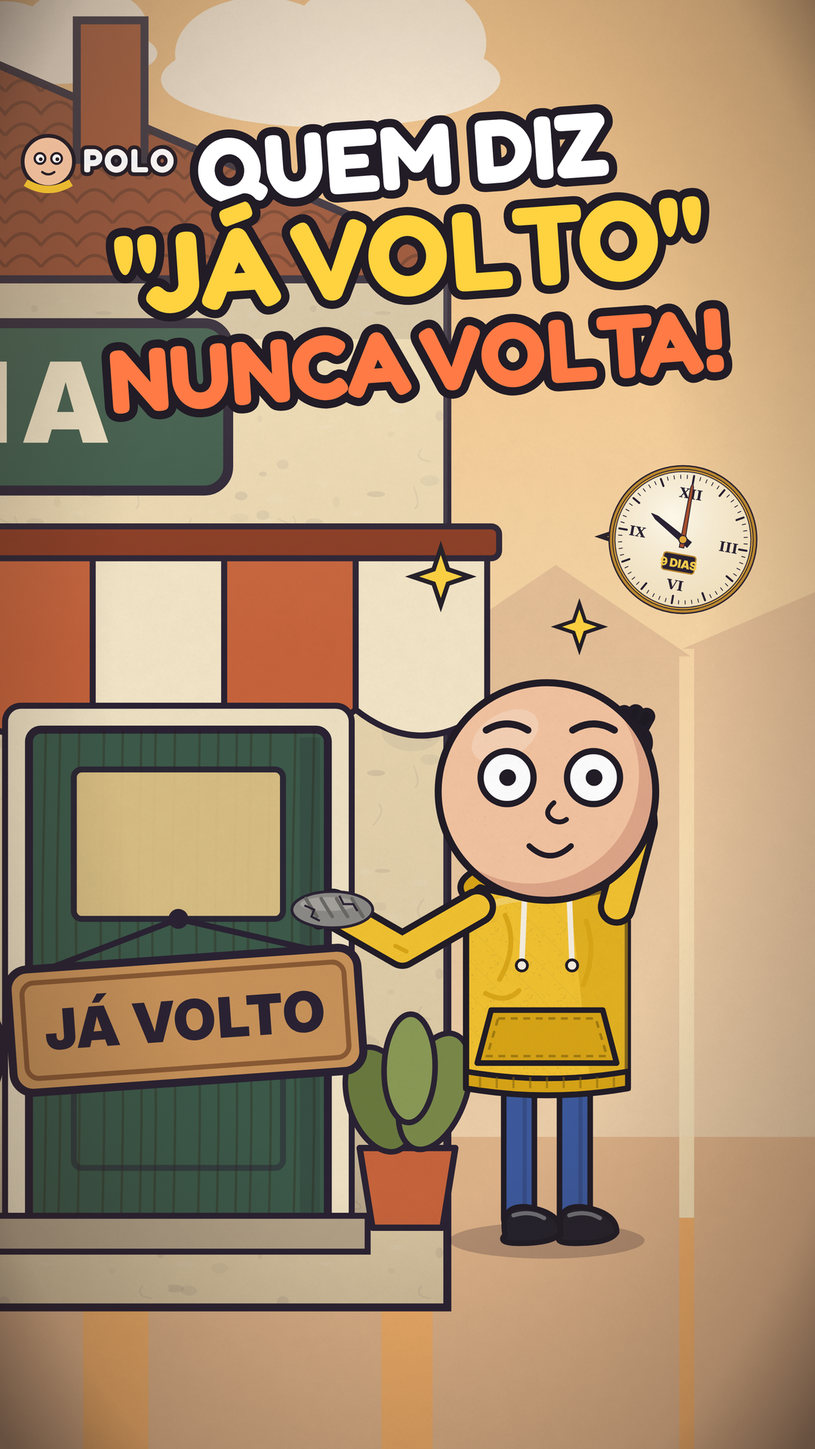
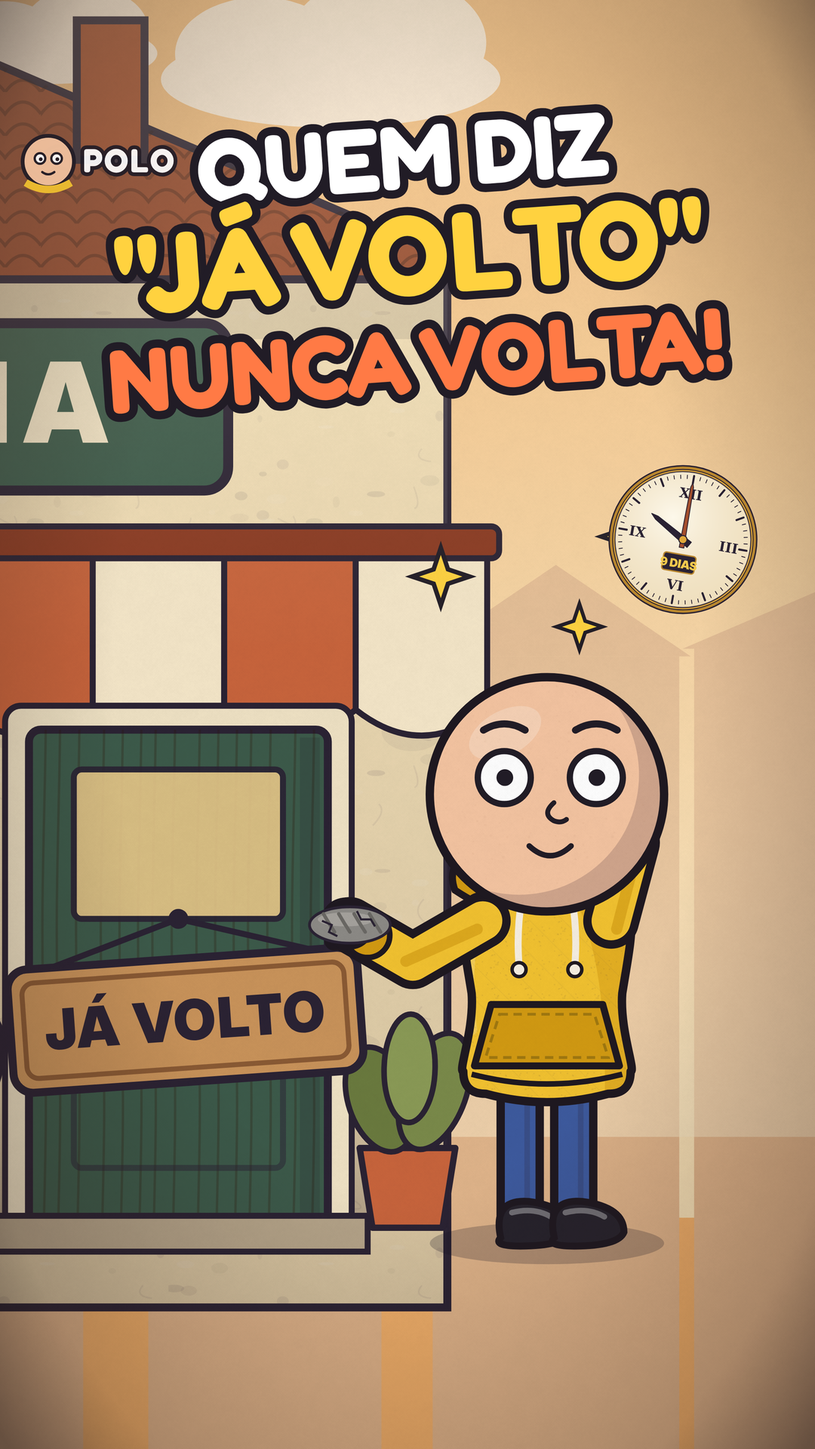
Character rig v2: rounded orbita-like bodies, patterned clothes, bulb noses, heavy lids, volumetric hair, mitten hands
Claude-Session: https://claude.ai/code/session_01HYk7gqrGxfTzigKjgtFxjV

Changed region(s): [[0.3667, 0.4375, 0.825, 0.875]]

diff --git a/video/web9/characters2.js b/video/web9/characters2.js
@@ -1,0 +1,290 @@
+// Character rig v2 — chunky, rounded "orbita-like" design language: barrel/pear bodies, puffy limbs,
+// mitten hands with fingers, bulb noses, heavy eyelids, volumetric hair, patterned clothes, thick outlines.
+// Same API as person() v1 so all shots keep working. Loaded after characters.js and overrides person/personSide.
+const OL = '#1e1820';          // outline
+const LW = 6;                  // outline width
+const H2 = -320, HR2 = 84;     // head centre / radius
+
+const CAST2 = {
+  polo:     { skin: '#f4c4a1', top: '#f2c230', topD: '#d29a12', topType: 'hoodie', bottom: '#3d5a9e', shoes: '#26222c', hands: '#1d1a22', hair: 'bald', poloFace: 1, w: 1.0, seed: 1 },
+  padeira:  { skin: '#f1c08f', top: '#e0787a', topD: '#c05a5e', topType: 'dress', pattern: 'pDots', apron: 1, bottom: '#e0787a', shoes: '#7a3a2a', hair: 'chef', hairC: '#5a3424', blush: 1, ear: '#f2c230', w: 1.28, seed: 2 },
+  padeiraV: { skin: '#f1c08f', top: '#9b84c8', topD: '#7a62aa', topType: 'dress', pattern: 'pFlowers', bottom: '#9b84c8', shoes: '#8a5a8a', hair: 'cloud', hairC: '#e8e4f2', bun: 1, glasses: '#c9a24a', blush: 1, ear: '#f2c230', w: 1.3, seed: 2 },
+  mae:      { skin: '#c98b5e', top: '#7b52b8', topD: '#5e3c98', topType: 'dress', pattern: 'pFlowers', bottom: '#7b52b8', shoes: '#e07a9a', hair: 'cloud', hairC: '#3a2018', bun: 1, blush: 1, ear: '#f2c230', w: 1.22, seed: 3 },
+  motorista:{ skin: '#f3cfae', top: '#3c5a8a', topD: '#2a426c', topType: 'shirt', tie: '#c8443c', bottom: '#28324c', shoes: '#1d1a22', hair: 'driverCap', stache: '#4a2a1a', w: 1.18, seed: 4 },
+  barnabe:  { skin: '#eab88a', top: '#f4efe2', topD: '#d6cfbe', topType: 'vest', vest: '#8a6a3a', bottom: '#5a5a6a', shoes: '#3a2a20', hair: 'sides', stache: '#f6f3ec', hat: 'straw', cane: 1, w: 1.12, seed: 5 },
+  menino:   { skin: '#8d5a34', top: '#e86a4a', topD: '#c24a32', topType: 'tee', pattern: 'pStripeH', bottom: '#3d5a9e', shorts: 1, shoes: '#f4f1ea', hair: 'cap', hairC: '#1e1410', scale: 0.74, w: 1.0, seed: 6 },
+  mulher:   { skin: '#e0ac79', top: '#3f9a6e', topD: '#2c7a52', topType: 'dress', pattern: 'pDots', bottom: '#3f9a6e', shoes: '#c8443c', hair: 'cloud', hairC: '#6a3a24', glasses: '#d0604a', blush: 1, ear: '#f2c230', w: 1.18, seed: 7 },
+  moca:     { skin: '#f5d0b0', top: '#ee8aaa', topD: '#d06a8c', topType: 'tee', bottom: '#4f72b8', shoes: '#f4f1ea', hair: 'long', hairC: '#7a4426', bow: '#f2c230', blush: 1, ear: '#ee8aaa', scale: 0.95, w: 1.0, seed: 8 },
+  viz1:     { skin: '#c98b5e', top: '#6a9ad0', topD: '#4c7ab0', topType: 'shirt', bottom: '#5a4a3a', shoes: '#2a2228', hair: 'short', hairC: '#1d1a22', w: 1.1, seed: 9 },
+  viz2:     { skin: '#f1c08f', top: '#d0704a', topD: '#a8502e', topType: 'tee', pattern: 'pStripeH', bottom: '#3a3a4a', shoes: '#2a2228', hair: 'short', hairC: '#8a5a2a', w: 1.15, seed: 10 },
+  viz3:     { skin: '#8d5a34', top: '#e8b03a', topD: '#c08a1e', topType: 'dress', pattern: 'pFlowers', bottom: '#e8b03a', shoes: '#6a3a28', hair: 'cloud', hairC: '#1d1a22', blush: 1, ear: '#e86a6a', w: 1.2, seed: 11 },
+  padeiro2: { skin: '#c98b5e', top: '#f6efe2', topD: '#dcd2bc', topType: 'shirt', apron: 1, bottom: '#3a3a4a', shoes: '#2a2228', hair: 'chef', hairC: '#1d1a22', w: 1.08, seed: 13 },
+};
+const shade = (c, k = 0.22) => mix(c, '#2a1a2a', k);
+const lite = (c, k = 0.25) => mix(c, '#ffffff', k);
+
+// ---------- hands ----------
+function mitt(hx, hy, ex, ey, col, pose) {
+  const deg = Math.atan2(hy - ey, hx - ex) * 180 / Math.PI;
+  let s = `<g transform="translate(${f2(hx)} ${f2(hy)}) rotate(${f2(deg)})">`;
+  const fing = (rot, len, w = 11) => `<g transform="rotate(${rot})"><rect x="4" y="${-w / 2}" width="${len}" height="${w}" rx="${w / 2}" fill="${col}" stroke="${OL}" stroke-width="4"/></g>`;
+  if (pose === 'open') { s += fing(-34, 24) + fing(-11, 27) + fing(12, 26) + fing(34, 22) + fing(-88, 19); }
+  else if (pose === 'point') { s += fing(0, 34) + fing(-80, 16); s += `<path d="M 6 10 q 12 6 16 0" stroke="${OL}" stroke-width="3.5" fill="${col}"/>`; }
+  else { s += fing(-75, 17); }
+  s += `<ellipse cx="2" cy="0" rx="17" ry="16" fill="${col}" stroke="${OL}" stroke-width="${LW - 1}"/>`;
+  if (pose !== 'open' && pose !== 'point') s += `<path d="M 10 -8 q 6 8 0 16" stroke="${shade(col, 0.35)}" stroke-width="3" fill="none"/>`;
+  return s + `<circle cx="-4" cy="-6" r="4" fill="#fff" opacity="0.28"/></g>`;
+}
+
+// ---------- head ----------
+function head2(P, d, fx, dir, side) {
+  let s = '';
+  const sk = P.skin, skD = shade(sk, 0.18);
+  // hair behind
+  s += hairBack2(P, dir);
+  // ears
+  if (!P.poloFace) for (const k of (side ? [-dir] : [-1, 1])) {
+    const ex = side ? -dir * 66 : k * 80;
+    s += `<ellipse cx="${ex}" cy="${H2 + 10}" rx="15" ry="18" fill="${sk}" stroke="${OL}" stroke-width="${LW - 1}"/><path d="M ${ex - k * 2} ${H2 + 2} q ${-k * 6} 8 0 16" stroke="${skD}" stroke-width="4" fill="none"/>`;
+    if (P.ear) s += `<circle cx="${ex}" cy="${H2 + 34}" r="7" fill="${P.ear}" stroke="${OL}" stroke-width="3"/>`;
+  }
+  // skull: slightly wider at the cheeks for the non-Polo cast
+  const skull = P.poloFace ? `M 0 ${H2 - HR2} A ${HR2} ${HR2} 0 1 1 0 ${H2 + HR2} A ${HR2} ${HR2} 0 1 1 0 ${H2 - HR2} Z`
+    : `M 0 ${H2 - 84} C 56 ${H2 - 84} 84 ${H2 - 46} 84 ${H2 + 2} C 84 ${H2 + 58} 50 ${H2 + 84} 0 ${H2 + 84} C -50 ${H2 + 84} -84 ${H2 + 58} -84 ${H2 + 2} C -84 ${H2 - 46} -56 ${H2 - 84} 0 ${H2 - 84} Z`;
+  s += `<path d="${skull}" fill="${skD}"/>`;
+  s += `<clipPath id="ck${P.seed}${side ? 's' : ''}"><path d="${skull}"/></clipPath><g clip-path="url(#ck${P.seed}${side ? 's' : ''})"><circle cx="${-dir * 14 - 6}" cy="${H2 - 14}" r="${HR2 + 2}" fill="${sk}"/><ellipse cx="-30" cy="${H2 - 44}" rx="28" ry="16" fill="#fff" opacity="0.22" transform="rotate(-28 -30 ${H2 - 44})"/><rect x="-100" y="${H2 - 100}" width="200" height="200" fill="url(#pSkin)"/></g>`;
+  s += `<path d="${skull}" fill="none" stroke="${OL}" stroke-width="${LW}"/>`;
+  s += P.poloFace ? poloFace2(P, d, fx) : face2(P, d, fx, dir, side);
+  s += hairFront2(P, d, dir, fx);
+  return s;
+}
+
+function lidPath(cx, cy, rx, ry, lid, col) {
+  if (lid <= 0.02) return '';
+  const ly = cy - ry + 2 * ry * lid;
+  const half = rx * Math.sqrt(Math.max(0, 1 - Math.pow((ly - cy) / ry, 2)));
+  return `<path d="M ${f2(cx - rx - 2)} ${f2(cy - ry - 3)} H ${f2(cx + rx + 2)} V ${f2(ly)} Q ${f2(cx)} ${f2(ly + 4)} ${f2(cx - rx - 2)} ${f2(ly)} Z" fill="${col}"/>` +
+    `<path d="M ${f2(cx - half - 2)} ${f2(ly)} Q ${f2(cx)} ${f2(ly + 4)} ${f2(cx + half + 2)} ${f2(ly)}" stroke="${OL}" stroke-width="5.5" fill="none" stroke-linecap="round"/>`;
+}
+
+function face2(P, d, fx, dir, side) {
+  const e = d.expr, sk = P.skin, skD = shade(sk, 0.2);
+  const ey = H2 - 8, sep = side ? 18 : 30, rx = 15, ry = 17;
+  const bl = Math.max(d.blink, autoBlink(d.t, P.seed));
+  let s = '';
+  const baseLid = { neutral: 0.34, happy: 0.38, smug: 0.5, worried: 0.18, sad: 0.42, angry: 0.4, surprised: 0, joy: 0, laugh: 0 }[e] ?? 0.3;
+  const bw = { neutral: [0, 0], happy: [-2, 0], surprised: [-14, 0], worried: [-4, 10], angry: [3, -10], smug: [-1, -6], laugh: [-6, 0], joy: [-8, 0], sad: [0, 10] }[e] || [0, 0];
+  const browC = P.hair === 'cloud' || P.hair === 'long' || P.hair === 'short' || P.hair === 'cap' ? (P.hairC || OL) : OL;
+  for (const k of [-1, 1]) {
+    const cx = fx + k * sep;
+    const y = ey - 30 + bw[0], inner = bw[1];
+    s += `<path d="M ${f2(cx - 15)} ${f2(y + (k < 0 ? 0 : inner * 0.5) + 2)} Q ${f2(cx)} ${f2(y - 7)} ${f2(cx + 15)} ${f2(y + (k < 0 ? inner * 0.5 : 0) + 2)}" stroke="${browC}" stroke-width="7.5" fill="none" stroke-linecap="round"/>`;
+    if (e === 'laugh' || e === 'joy' || (e === 'smug' && d.wink && k === 1)) {
+      s += `<path d="M ${f2(cx - 14)} ${ey + 4} Q ${f2(cx)} ${ey - 12} ${f2(cx + 14)} ${ey + 4}" stroke="${OL}" stroke-width="6" fill="none" stroke-linecap="round"/>`;
+      continue;
+    }
+    const big = e === 'surprised' ? 1.15 : 1;
+    s += `<ellipse cx="${f2(cx)}" cy="${ey}" rx="${f2(rx * big)}" ry="${f2(ry * big)}" fill="#fffdf6" stroke="${OL}" stroke-width="4.5"/>`;
+    const px = cx + d.lx * 6 + (side ? dir * 5 : d.face * 3), py = ey + 2 + d.ly * 6;
+    s += `<circle cx="${f2(px)}" cy="${f2(py)}" r="${e === 'surprised' ? 4.5 : 6.5}" fill="${OL}"/><circle cx="${f2(px + 2)}" cy="${f2(py - 2.5)}" r="2" fill="#fff"/>`;
+    s += lidPath(cx, ey, rx * big, ry * big, Math.max(bl, baseLid), skD);
+    if (e === 'happy') s += `<path d="M ${f2(cx - 12)} ${ey + 14} Q ${f2(cx)} ${ey + 8} ${f2(cx + 12)} ${ey + 14}" stroke="${skD}" stroke-width="4" fill="none"/>`;
+  }
+  if (P.glasses) { for (const k of [-1, 1]) s += `<circle cx="${f2(fx + k * sep)}" cy="${ey}" r="25" fill="#ffffff22" stroke="${P.glasses}" stroke-width="6"/>`; s += `<path d="M ${f2(fx - 6)} ${ey - 2} L ${f2(fx + 6)} ${ey - 2}" stroke="${P.glasses}" stroke-width="6"/>`; }
+  // bulb nose
+  const nx = fx + (side ? dir * 30 : d.face * 6), ny = H2 + 22;
+  s += `<ellipse cx="${f2(nx)}" cy="${ny}" rx="15" ry="13" fill="${shade(sk, 0.12)}" stroke="${OL}" stroke-width="${LW - 1}"/><circle cx="${f2(nx - 4)}" cy="${ny - 5}" r="4" fill="#fff" opacity="0.4"/>`;
+  // cheeks
+  if (P.blush || e === 'laugh' || e === 'joy') for (const k of [-1, 1]) s += `<ellipse cx="${f2(fx + k * 44)}" cy="${H2 + 28}" rx="15" ry="9" fill="#e85a5a" opacity="0.32"/>`;
+  // mouth with lips
+  const mx = fx * 0.9 + (side ? dir * 18 : 0), my = H2 + 52, m = clamp(d.mouth);
+  const lip = shade(sk, 0.32);
+  if (e === 'surprised' || e === 'o') s += `<ellipse cx="${f2(mx)}" cy="${my}" rx="${f2(10 + m * 3)}" ry="${f2(12 + m * 5)}" fill="#6a1c28" stroke="${OL}" stroke-width="4.5"/><ellipse cx="${f2(mx)}" cy="${my + 6}" rx="6" ry="4" fill="#e0606a"/>`;
+  else if (e === 'laugh' || e === 'joy' || m > 0.05) {
+    const op = e === 'laugh' || e === 'joy' ? Math.max(m, 0.75) : m;
+    s += `<path d="M ${f2(mx - 22)} ${my - 6} Q ${f2(mx)} ${f2(my + 4 + op * 26)} ${f2(mx + 22)} ${my - 6} Q ${f2(mx)} ${my - 2} ${f2(mx - 22)} ${my - 6} Z" fill="#6a1c28" stroke="${OL}" stroke-width="4.5" stroke-linejoin="round"/>`;
+    if (op > 0.3) s += `<path d="M ${f2(mx - 17)} ${my - 4} Q ${f2(mx)} ${my} ${f2(mx + 17)} ${my - 4} L ${f2(mx + 14)} ${my + 4} Q ${f2(mx)} ${my + 7} ${f2(mx - 14)} ${my + 4} Z" fill="#fff"/><ellipse cx="${f2(mx)}" cy="${f2(my + op * 16)}" rx="9" ry="5" fill="#e0606a"/>`;
+  } else if (e === 'worried' || e === 'sad') s += `<path d="M ${f2(mx - 15)} ${my + 6} Q ${f2(mx)} ${my - 6} ${f2(mx + 15)} ${my + 6}" stroke="${OL}" stroke-width="5" fill="none" stroke-linecap="round"/><path d="M ${f2(mx - 8)} ${my + 6} q 8 4 16 0" stroke="${lip}" stroke-width="4" fill="none"/>`;
+  else if (e === 'smug') s += `<path d="M ${f2(mx - 16)} ${my} Q ${f2(mx + 2)} ${my + 10} ${f2(mx + 20)} ${my - 8}" stroke="${OL}" stroke-width="5" fill="none" stroke-linecap="round"/><path d="M ${f2(mx - 8)} ${my + 7} q 8 5 16 -1" stroke="${lip}" stroke-width="4" fill="none"/>`;
+  else if (e === 'neutral' || e === 'angry') s += `<path d="M ${f2(mx - 13)} ${my} Q ${f2(mx)} ${my - 3} ${f2(mx + 13)} ${my}" stroke="${OL}" stroke-width="5" fill="none" stroke-linecap="round"/><path d="M ${f2(mx - 8)} ${my + 6} q 8 4 16 0" stroke="${lip}" stroke-width="4" fill="none"/>`;
+  else s += `<path d="M ${f2(mx - 19)} ${my - 4} Q ${f2(mx)} ${my + 14} ${f2(mx + 19)} ${my - 4}" stroke="${OL}" stroke-width="5" fill="none" stroke-linecap="round"/><path d="M ${f2(mx - 10)} ${my + 10} q 10 5 20 0" stroke="${lip}" stroke-width="4" fill="none"/>`;
+  if (P.stache) s += `<path d="M ${f2(mx - 34)} ${my - 6} Q ${f2(mx - 18)} ${my - 30} ${f2(mx)} ${my - 15} Q ${f2(mx + 18)} ${my - 30} ${f2(mx + 34)} ${my - 6} Q ${f2(mx + 16)} ${my - 2} ${f2(mx)} ${my - 9} Q ${f2(mx - 16)} ${my - 2} ${f2(mx - 34)} ${my - 6} Z" fill="${P.stache}" stroke="${OL}" stroke-width="4.5"/>`;
+  return s;
+}
+
+// Polo keeps the user's design: big round white eyes, tiny pupils, small curl nose, small mouth.
+function poloFace2(P, d, fx) {
+  const fdd = Object.assign({}, d, { sep: d.sep || 33 });
+  const old = HY; // v1 face uses HY (-322); same placement works on the r=84 head
+  return face9(fdd, CAST.polo, fx);
+}
+
+function hairBack2(P, dir) {
+  const c = P.hairC || '#3a2018';
+  if (P.hair === 'long') return `<path d="M -92 ${H2 - 4} C -106 ${H2 - 124} 106 ${H2 - 124} 92 ${H2 - 4} C 104 ${H2 + 60} 108 ${H2 + 120} 86 ${H2 + 140} Q 50 ${H2 + 150} 40 ${H2 + 110} L -40 ${H2 + 110} Q -50 ${H2 + 150} -86 ${H2 + 140} C -108 ${H2 + 120} -104 ${H2 + 60} -92 ${H2 - 4} Z" fill="${c}" stroke="${OL}" stroke-width="${LW}"/><path d="M 60 ${H2 + 20} q 16 50 8 100" stroke="${lite(c, 0.2)}" stroke-width="6" fill="none" opacity="0.6"/>`;
+  if (P.hair === 'cloud') {
+    let s = ''; const big = P.bun ? 0.8 : 1.12;
+    for (let i = 0; i < 11; i++) { const a = Math.PI * (0.92 + i * 0.116); s += `<circle cx="${f2(Math.cos(a) * 92 * big)}" cy="${f2(H2 + Math.sin(a) * 86 * big + 6)}" r="${f2(30 * big)}" fill="${c}" stroke="${OL}" stroke-width="${LW}"/>`; }
+    if (P.bun) s += `<circle cx="0" cy="${H2 - 104}" r="40" fill="${c}" stroke="${OL}" stroke-width="${LW}"/><path d="M -22 ${H2 - 118} q 14 -16 32 -8" stroke="${lite(c, 0.35)}" stroke-width="7" fill="none" stroke-linecap="round"/>`;
+    return s;
+  }
+  return '';
+}
+function hairFront2(P, d, dir, fx) {
+  const c = P.hairC || '#3a2018', hl = lite(c, 0.35);
+  switch (P.hair) {
+    case 'cloud': {
+      let s = `<path d="M -84 ${H2 - 6} C -90 ${H2 - 104} 90 ${H2 - 104} 84 ${H2 - 6} Q 50 ${H2 - 52} 10 ${H2 - 48} Q -40 ${H2 - 44} -84 ${H2 - 6} Z" fill="${c}" stroke="${OL}" stroke-width="${LW}"/>`;
+      for (let i = 0; i < 6; i++) s += `<circle cx="${-60 + i * 24}" cy="${H2 - 70 + Math.abs(i - 2.5) * 7}" r="21" fill="${c}" stroke="${OL}" stroke-width="${LW - 1}"/>`;
+      for (let i = 0; i < 4; i++) s += `<path d="M ${-56 + i * 30} ${H2 - 80 + Math.abs(i - 1.5) * 6} q 8 -8 16 -2" stroke="${hl}" stroke-width="5" fill="none" stroke-linecap="round"/>`;
+      return s;
+    }
+    case 'long': return `<path d="M -86 ${H2 + 4} C -92 ${H2 - 108} 92 ${H2 - 108} 86 ${H2 + 4} Q 56 ${H2 - 70} ${f2(fx + 14)} ${H2 - 58} Q -34 ${H2 - 46} -86 ${H2 + 4} Z" fill="${c}" stroke="${OL}" stroke-width="${LW}"/><path d="M -40 ${H2 - 80} q 26 -14 56 -6" stroke="${hl}" stroke-width="6" fill="none" stroke-linecap="round"/>` +
+      (P.bow ? `<path d="M 34 ${H2 - 86} l -28 -18 l 0 36 Z M 34 ${H2 - 86} l 28 -18 l 0 36 Z" fill="${P.bow}" stroke="${OL}" stroke-width="4.5" stroke-linejoin="round"/><circle cx="34" cy="${H2 - 86}" r="9" fill="${P.bow}" stroke="${OL}" stroke-width="4"/>` : '');
+    case 'short': return `<path d="M -86 ${H2 - 2} C -92 ${H2 - 110} 92 ${H2 - 110} 86 ${H2 - 2} Q 74 ${H2 - 46} ${f2(fx + 36)} ${H2 - 58} Q -12 ${H2 - 46} -38 ${H2 - 66} Q -62 ${H2 - 40} -86 ${H2 - 2} Z" fill="${c}" stroke="${OL}" stroke-width="${LW}"/><path d="M -30 ${H2 - 88} q 30 -10 60 0" stroke="${hl}" stroke-width="6" fill="none" stroke-linecap="round"/>`;
+    case 'chef': return `<path d="M -70 ${H2 - 30} Q -74 ${H2 - 60} -60 ${H2 - 62} L 60 ${H2 - 62} Q 74 ${H2 - 60} 70 ${H2 - 30} Q 0 ${H2 - 46} -70 ${H2 - 30} Z" fill="${c}" stroke="${OL}" stroke-width="${LW - 1}"/>` +
+      `<rect x="-68" y="${H2 - 100}" width="136" height="40" rx="10" fill="#f6efe2" stroke="${OL}" stroke-width="${LW}"/><path d="M -66 ${H2 - 96} C -112 ${H2 - 120} -76 ${H2 - 184} -36 ${H2 - 158} C -26 ${H2 - 208} 30 ${H2 - 208} 38 ${H2 - 158} C 76 ${H2 - 184} 112 ${H2 - 120} 66 ${H2 - 96} Z" fill="#fffbf2" stroke="${OL}" stroke-width="${LW}"/><path d="M -30 ${H2 - 150} q -6 22 4 44 M 20 ${H2 - 160} q 6 26 -2 52" stroke="#e6dcc8" stroke-width="5" fill="none"/>`;
+    case 'cap': return `<path d="M -84 ${H2 - 18} C -84 ${H2 - 112} 84 ${H2 - 112} 84 ${H2 - 18} Z" fill="#3a6ab8" stroke="${OL}" stroke-width="${LW}"/><path d="M -40 ${H2 - 96} q 30 -12 64 0" stroke="#6a9ae0" stroke-width="6" fill="none"/><path d="M ${dir * 20} ${H2 - 22} Q ${dir * 100} ${H2 - 30} ${dir * 124} ${H2 - 12} Q ${dir * 80} ${H2 - 2} ${dir * 20} ${H2 - 10} Z" fill="#2a5096" stroke="${OL}" stroke-width="${LW - 1}" stroke-linejoin="round"/><circle cx="0" cy="${H2 - 92}" r="8" fill="#2a5096" stroke="${OL}" stroke-width="4"/>`;
+    case 'driverCap': return `<g transform="translate(0 -26)"><path d="M -82 ${H2 - 24} C -82 ${H2 - 116} 82 ${H2 - 116} 82 ${H2 - 24} Z" fill="#3c5a8a" stroke="${OL}" stroke-width="${LW}"/><rect x="-86" y="${H2 - 38}" width="172" height="20" rx="8" fill="#1e2e4e" stroke="${OL}" stroke-width="${LW - 1}"/><path d="M ${dir * 6} ${H2 - 20} Q ${dir * 76} ${H2 - 16} ${dir * 114} ${H2 - 2} L ${dir * 6} ${H2 - 6} Z" fill="#14203a" stroke="${OL}" stroke-width="${LW - 1}"/><circle cx="0" cy="${H2 - 70}" r="12" fill="#f2c230" stroke="${OL}" stroke-width="4"/></g>`;
+    case 'sides': return `<path d="M -86 ${H2 + 16} Q -104 ${H2 - 28} -76 ${H2 - 44} Q -70 ${H2 - 6} -82 ${H2 + 22} Z M 86 ${H2 + 16} Q 104 ${H2 - 28} 76 ${H2 - 44} Q 70 ${H2 - 6} 82 ${H2 + 22} Z" fill="#f6f3ec" stroke="${OL}" stroke-width="${LW - 1}"/>` +
+      (P.hat === 'straw' ? `<ellipse cx="0" cy="${H2 - 56}" rx="134" ry="24" fill="#e8c46a" stroke="${OL}" stroke-width="${LW}"/><path d="M -68 ${H2 - 58} C -66 ${H2 - 128} 66 ${H2 - 128} 68 ${H2 - 58} Z" fill="#e8c46a" stroke="${OL}" stroke-width="${LW}"/><path d="M -68 ${H2 - 72} Q 0 ${H2 - 62} 68 ${H2 - 72} L 67 ${H2 - 58} Q 0 ${H2 - 50} -67 ${H2 - 58} Z" fill="#c8443c"/><path d="M -40 ${H2 - 104} q 30 -12 60 -2" stroke="#fff2c0" stroke-width="6" fill="none"/>` : '');
+  }
+  return '';
+}
+
+// ---------- body ----------
+function bodyPath(P, k = 1) {
+  const w = (P.w || 1) * k;
+  const dress = P.topType === 'dress';
+  const sh = 46 * w, wa = 54 * w, hip = (dress ? 76 : 60) * w, hem = dress ? -46 : -104;
+  return { d: `M ${-sh} -246 C ${-sh - 22} -244 ${-wa - 6} -214 ${-wa} -176 C ${-wa + 2} -150 ${-hip - 4} -120 ${-hip} ${hem - 16} Q ${-hip} ${hem} ${-hip + 16} ${hem} Q 0 ${hem + 12} ${hip - 16} ${hem} Q ${hip} ${hem} ${hip} ${hem - 16} C ${hip + 4} -120 ${wa - 2} -150 ${wa} -176 C ${wa + 6} -214 ${sh + 22} -244 ${sh} -246 Q 0 -232 ${-sh} -246 Z`, hem, hip, wa, sh };
+}
+function torso2(P, d, k = 1) {
+  const B = bodyPath(P, k);
+  const id = `cb${P.seed}${k < 1 ? 's' : ''}`;
+  let s = `<clipPath id="${id}"><path d="${B.d}"/></clipPath>`;
+  if (P.topType === 'hoodie') s += `<path d="M -66 -250 Q 0 -206 66 -250 Q 74 -272 46 -282 Q 0 -262 -46 -282 Q -74 -272 -66 -250 Z" fill="${P.topD}" stroke="${OL}" stroke-width="${LW - 1}"/>`;
+  s += `<path d="${B.d}" fill="${P.top}"/>`;
+  s += `<g clip-path="url(#${id})">`;
+  if (P.pattern) s += `<rect x="-140" y="-260" width="280" height="260" fill="url(#${P.pattern})"/>`;
+  if (P.topType === 'vest') s += `<path d="M -90 -260 L -14 -260 L 0 -200 L 14 -260 L 90 -260 L 90 0 L -90 0 Z" fill="${P.vest}"/><path d="M -14 -260 L 0 -200 L 14 -260" stroke="${OL}" stroke-width="4" fill="none"/><circle cx="-10" cy="-170" r="5" fill="#f2c230" stroke="${OL}" stroke-width="2.5"/><circle cx="-10" cy="-140" r="5" fill="#f2c230" stroke="${OL}" stroke-width="2.5"/>`;
+  if (P.apron) s += `<path d="M -48 -200 Q 0 -196 48 -200 L 62 -30 Q 0 -20 -62 -30 Z" fill="#fffaf0" stroke="${OL}" stroke-width="4.5"/><rect x="-26" y="-150" width="52" height="30" rx="8" fill="#efe6d2" stroke="${OL}" stroke-width="3.5"/><path d="M -44 -200 L -34 -246 M 44 -200 L 34 -246" stroke="#fffaf0" stroke-width="8"/>`;
+  // volume shading: right side darker, left rim light, waist crease
+  s += `<path d="M 10 -260 C 40 -220 50 -140 34 0 L 140 0 L 140 -260 Z" fill="${P.topD}" opacity="0.45"/>`;
+  s += `<path d="M -50 -236 Q -60 -190 -54 -150" stroke="#fff" stroke-width="8" fill="none" opacity="0.18" stroke-linecap="round"/>`;
+  s += `<rect x="-140" y="-260" width="280" height="260" fill="url(#pFabric)"/>`;
+  s += '</g>';
+  s += `<path d="${B.d}" fill="none" stroke="${OL}" stroke-width="${LW}" stroke-linejoin="round"/>`;
+  if (P.topType === 'hoodie') {
+    s += `<path d="M -40 -168 L 40 -168 L 52 -124 L -52 -124 Z" fill="${P.topD}" stroke="${OL}" stroke-width="${LW - 1}" stroke-linejoin="round"/><path d="M -34 -161 L 34 -161 L 44 -130 L -44 -130 Z" fill="none" stroke="#8a6a10" stroke-width="2" stroke-dasharray="6 4" opacity="0.7"/>`;
+    s += `<path d="M -18 -244 Q -22 -220 -20 -196 M 18 -244 Q 22 -220 20 -196" stroke="#f6efe2" stroke-width="5" fill="none" stroke-linecap="round"/><circle cx="-20" cy="-193" r="5" fill="#f6efe2" stroke="${OL}" stroke-width="2.5"/><circle cx="20" cy="-193" r="5" fill="#f6efe2" stroke="${OL}" stroke-width="2.5"/>`;
+    s += `<path d="M ${-B.hip + 6} -118 Q 0 -104 ${B.hip - 6} -118" stroke="${OL}" stroke-width="4" fill="none"/>`;
+  }
+  if (P.topType === 'shirt') s += `<path d="M -26 -244 L 0 -214 L 26 -244" fill="#fff" stroke="${OL}" stroke-width="4"/>` + (P.tie ? `<path d="M -7 -214 L 7 -214 L 10 -150 L 0 -136 L -10 -150 Z" fill="${P.tie}" stroke="${OL}" stroke-width="3.5"/>` : `<circle cx="0" cy="-190" r="4" fill="${OL}"/><circle cx="0" cy="-160" r="4" fill="${OL}"/>`) + `<rect x="18" y="-200" width="22" height="18" rx="3" fill="none" stroke="${OL}" stroke-width="3" opacity="0.6"/>`;
+  if (P.topType === 'tee' || P.topType === 'dress') s += `<path d="M -28 -244 Q 0 -222 28 -244" stroke="${OL}" stroke-width="4.5" fill="none"/>`;
+  if (P.topType === 'dress') s += `<path d="M ${-B.wa} -176 Q 0 -162 ${B.wa} -176" stroke="${shade(P.top, 0.35)}" stroke-width="5" fill="none"/>`;
+  return { svg: s, B };
+}
+
+function limb2(P, side, a, b, shortSleeve, pose, holdSvg, dir) {
+  // shoulder angle a (0 down, 90 out, 180 up); elbow bend b
+  const sx = side * 46 * (P.w || 1), sy = -228;
+  const A = a * Math.PI / 180, B2 = (a + b) * Math.PI / 180;
+  const ex = sx + side * Math.sin(A) * 58, ey = sy + Math.cos(A) * 58;
+  const hx = ex + side * Math.sin(B2) * 52, hy = ey + Math.cos(B2) * 52;
+  const sl = P.top, slD = P.topD;
+  let s = '';
+  if (shortSleeve) {
+    s += `<path d="M ${f2(ex)} ${f2(ey)} L ${f2(hx)} ${f2(hy)}" stroke="${OL}" stroke-width="32" stroke-linecap="round"/><path d="M ${f2(ex)} ${f2(ey)} L ${f2(hx)} ${f2(hy)}" stroke="${P.skin}" stroke-width="21" stroke-linecap="round"/>`;
+    s += `<path d="M ${sx} ${sy} L ${f2(ex)} ${f2(ey)}" stroke="${OL}" stroke-width="44" stroke-linecap="round"/><path d="M ${sx} ${sy} L ${f2(ex)} ${f2(ey)}" stroke="${sl}" stroke-width="32" stroke-linecap="round"/>`;
+  } else {
+    const p = `M ${sx} ${sy} L ${f2(ex)} ${f2(ey)} L ${f2(hx)} ${f2(hy)}`;
+    s += `<path d="${p}" stroke="${OL}" stroke-width="40" fill="none" stroke-linecap="round" stroke-linejoin="round"/><path d="${p}" stroke="${sl}" stroke-width="28" fill="none" stroke-linecap="round" stroke-linejoin="round"/>`;
+    s += `<path d="M ${f2(sx + side * 4)} ${sy + 6} L ${f2(ex + side * 5)} ${f2(ey)}" stroke="${slD}" stroke-width="8" stroke-linecap="round" opacity="0.6"/>`;
+    s += `<circle cx="${f2(hx - (hx - ex) * 0.28)}" cy="${f2(hy - (hy - ey) * 0.28)}" r="16" fill="${slD}" stroke="${OL}" stroke-width="4"/>`;
+  }
+  s += mitt(hx, hy, ex, ey, P.hands || P.skin, pose);
+  if (holdSvg) s += `<g transform="translate(${f2(hx)} ${f2(hy)})">${holdSvg}</g>`;
+  return { svg: s, hx, hy, ex, ey };
+}
+
+function legs2(P, lA, rA, dir) {
+  const dress = P.topType === 'dress';
+  const top = dress ? -60 : -110, L = -10 - top;
+  let s = '';
+  for (const [x, a] of [[-24 * (P.w || 1) * 0.8, lA], [24 * (P.w || 1) * 0.8, rA]]) {
+    const showSkin = dress || P.shorts;
+    s += `<g transform="rotate(${f2(a)} ${f2(x)} ${top})">`;
+    s += `<path d="M ${f2(x)} ${top} L ${f2(x)} -16" stroke="${OL}" stroke-width="34" stroke-linecap="round"/><path d="M ${f2(x)} ${top} L ${f2(x)} -16" stroke="${showSkin ? P.skin : P.bottom}" stroke-width="22" stroke-linecap="round"/>`;
+    if (P.shorts) s += `<path d="M ${f2(x)} ${top} L ${f2(x)} ${top + L * 0.45}" stroke="${OL}" stroke-width="36" stroke-linecap="round"/><path d="M ${f2(x)} ${top} L ${f2(x)} ${top + L * 0.45}" stroke="${P.bottom}" stroke-width="26" stroke-linecap="round"/>`;
+    else if (!dress) s += `<path d="M ${f2(x + 5)} ${top + 10} L ${f2(x + 5)} -26" stroke="${shade(P.bottom, 0.3)}" stroke-width="4" opacity="0.6"/>`;
+    s += `<path d="M ${f2(x - 18 + dir * 4)} 0 Q ${f2(x - 20)} -28 ${f2(x + dir * 6)} -26 Q ${f2(x + dir * 36)} -22 ${f2(x + dir * 36)} -4 Q ${f2(x + dir * 32)} 6 ${f2(x)} 6 Q ${f2(x - 20)} 6 ${f2(x - 18 + dir * 4)} 0 Z" fill="${P.shoes}" stroke="${OL}" stroke-width="${LW - 1}"/><path d="M ${f2(x - 6)} -18 Q ${f2(x + dir * 10)} -22 ${f2(x + dir * 22)} -15" stroke="#fff" stroke-width="4" fill="none" opacity="0.35" stroke-linecap="round"/>`;
+    s += '</g>';
+  }
+  return s;
+}
+
+function person(id, o = {}) {
+  const key = id === 'padeira' && o.old ? 'padeiraV' : id;
+  const P = CAST2[key] || CAST2.viz1;
+  const d = Object.assign({ x: 0, y: 0, s: 1, face: 0, expr: 'neutral', mouth: 0, blink: 0, lx: 0, ly: 0, armL: 8, armR: 8, bendL: 12, bendR: 12, walk: null, tilt: 0, squash: 0, jump: 0, t: 0, holdR: '', holdL: '', shadow: true, headTilt: 0, flip: false }, o);
+  if (d.mouth > 0.05) d.headTilt += Math.sin(d.t * 11) * 2.5;
+  const s = d.s * (P.scale || 1);
+  if (d.side) return personSide2(P, d, s);
+  const dir = d.face >= 0 ? 1 : -1, fx = d.face * 24;
+  const breath = Math.sin(d.t * 2.3 + P.seed) * 2.2;
+  let bob = 0, lA = 0, rA = 0;
+  if (d.walk != null) { bob = -Math.abs(Math.sin(d.walk)) * 10; lA = Math.sin(d.walk) * 20; rA = -lA; }
+  const shortS = P.topType === 'tee' || P.topType === 'dress';
+  const poseOf = (a, h) => h || (a > 120 ? 'open' : 'fist');
+  let g = '';
+  if (d.shadow) g += `<ellipse cx="0" cy="4" rx="${f2(84 * (P.w || 1) * (1 - d.jump / 400))}" ry="15" fill="#1b1424" opacity="0.24"/>`;
+  g += `<g transform="translate(0 ${f2(bob - d.jump)}) rotate(${f2(d.tilt)} 0 -100) scale(${f2(1 - d.squash * 0.5)} ${f2(1 + d.squash)})">`;
+  g += legs2(P, lA, rA, dir);
+  const aL = limb2(P, -1, d.armL, d.bendL, shortS, poseOf(d.armL, d.handL), d.holdL, dir);
+  const aR = limb2(P, 1, d.armR, d.bendR, shortS, poseOf(d.armR, d.handR), d.holdR, dir);
+  g += `<g transform="translate(0 ${f2(breath * 0.4)})">`;
+  const backL = d.armL < 20 && !d.holdL, backR = d.armR < 20 && !d.holdR;
+  if (backL) g += aL.svg; if (backR) g += aR.svg;
+  g += torso2(P, d).svg;
+  if (!backL) g += aL.svg; if (!backR) g += aR.svg;
+  if (P.cane) g += `<path d="M ${f2(aR.hx)} ${f2(aR.hy)} L ${f2(aR.hx + 12)} 0" stroke="${OL}" stroke-width="15" stroke-linecap="round"/><path d="M ${f2(aR.hx)} ${f2(aR.hy)} L ${f2(aR.hx + 12)} 0" stroke="#8a5a34" stroke-width="8" stroke-linecap="round"/>`;
+  g += '</g>';
+  g += `<g transform="translate(0 ${f2(breath)}) rotate(${f2(d.headTilt)} 0 ${H2 + 70})">${head2(P, d, fx, dir, false)}</g>`;
+  g += '</g>';
+  return `<g transform="translate(${f2(d.x)} ${f2(d.y)}) scale(${f2(s * (d.flip ? -1 : 1) * (1 - 0.45 * (d.turn || 0)))} ${f2(s)})">${g}</g>`;
+}
+
+function personSide2(P, d, s) {
+  const dir = d.face >= 0 ? 1 : -1;
+  const w = d.walk != null ? d.walk : 0, run = d.run ? 1.6 : 1;
+  const bob = d.walk != null ? -Math.abs(Math.sin(w)) * 12 * run : 0;
+  const dress = P.topType === 'dress';
+  const hipY = dress ? -70 : -110, th = dress ? 30 : 52, sh = dress ? 30 : 48;
+  const legSvg = (ph, back) => {
+    const a = Math.sin(ph) * 32 * run, knee = Math.max(0, -Math.cos(ph)) * 48 * run;
+    const A = a * Math.PI / 180, K = (a - knee) * Math.PI / 180;
+    const kx = dir * Math.sin(A) * th, ky = hipY + Math.cos(A) * th;
+    const fx = kx + dir * Math.sin(K) * sh, fy = ky + Math.cos(K) * sh;
+    const col0 = dress || P.shorts ? P.skin : P.bottom, col = back ? shade(col0, 0.18) : col0;
+    const p = `M 0 ${hipY} L ${f2(kx)} ${f2(ky)} L ${f2(fx)} ${f2(fy)}`;
+    return `<path d="${p}" stroke="${OL}" stroke-width="34" fill="none" stroke-linecap="round" stroke-linejoin="round"/><path d="${p}" stroke="${col}" stroke-width="22" fill="none" stroke-linecap="round" stroke-linejoin="round"/>` +
+      `<path d="M ${f2(fx - dir * 14)} ${f2(fy + 6)} Q ${f2(fx - dir * 14)} ${f2(fy - 14)} ${f2(fx + dir * 6)} ${f2(fy - 12)} Q ${f2(fx + dir * 36)} ${f2(fy - 8)} ${f2(fx + dir * 36)} ${f2(fy + 6)} Q ${f2(fx + dir * 30)} ${f2(fy + 16)} ${f2(fx)} ${f2(fy + 16)} Z" fill="${back ? shade(P.shoes, 0.2) : P.shoes}" stroke="${OL}" stroke-width="${LW - 1}"/>`;
+  };
+  const shortS = P.topType === 'tee' || P.topType === 'dress';
+  const arm = (ph, back, override) => {
+    const a = override != null ? override : -Math.sin(ph) * 30 * run, el = 25 + (d.run ? 50 : 0);
+    const L = limb2(Object.assign({}, P, { w: 0.15, top: back ? P.topD : P.top }), dir, a, el, shortS, a > 120 ? 'open' : 'fist', back ? '' : d.holdR, dir);
+    return L;
+  };
+  let g = '';
+  if (d.shadow) g += `<ellipse cx="0" cy="4" rx="${f2(70 * (P.w || 1))}" ry="14" fill="#1b1424" opacity="0.24"/>`;
+  g += `<g transform="translate(0 ${f2(bob - d.jump)}) rotate(${f2(d.tilt + (d.run ? dir * 7 : dir * 2))} 0 -60)">`;
+  const back = arm(w + Math.PI, true, d.armBack), front = arm(w, false, d.armFront);
+  g += back.svg + legSvg(w + Math.PI, true) + legSvg(w, false);
+  g += `<g transform="scale(0.8 1)">${torso2(P, d, 1).svg}</g>`;
+  g += front.svg;
+  g += `<g transform="translate(0 ${f2(Math.sin(w * 2) * 2)}) rotate(${f2(d.headTilt)} 0 ${H2 + 70})">${head2(P, Object.assign({}, d, { lx: dir }), dir * 26, dir, true)}</g>`;
+  g += '</g>';
+  return `<g transform="translate(${f2(d.x)} ${f2(d.y)}) scale(${f2(s * (1 - 0.45 * (d.turn || 0)))} ${f2(s)})">${g}</g>`;
+}

diff --git a/video/web9/main.js b/video/web9/main.js
@@ -18,6 +18,9 @@ function _pat() {
  <pattern id="pBrick" patternUnits="userSpaceOnUse" width="56" height="28"><path d="M 0 0 H 56 M 0 14 H 56 M 0 0 V 14 M 28 14 V 28" stroke="#2a1408" stroke-width="1.6" opacity="0.28"/><rect x="3" y="2" width="20" height="4" fill="#ffffff" opacity="0.08"/><rect x="31" y="16" width="20" height="4" fill="#ffffff" opacity="0.08"/></pattern>
  <pattern id="pTile" patternUnits="userSpaceOnUse" width="36" height="22"><path d="M 0 22 Q 9 10 18 22 Q 27 10 36 22" stroke="#2a1408" stroke-width="1.6" fill="none" opacity="0.32"/><path d="M -18 11 Q -9 -1 0 11 Q 9 -1 18 11 Q 27 -1 36 11" stroke="#2a1408" stroke-width="1.6" fill="none" opacity="0.32"/></pattern>
  <pattern id="pAsphalt" patternUnits="userSpaceOnUse" width="140" height="140">${plaster}${plaster.replace(/#2a2233/g, '#000000')}</pattern>
+ <pattern id="pFlowers" patternUnits="userSpaceOnUse" width="56" height="56"><g transform="translate(14 14)"><circle r="6" cx="0" cy="-7" fill="#fff6e8"/><circle r="6" cx="7" cy="-2" fill="#fff6e8"/><circle r="6" cx="4" cy="6" fill="#fff6e8"/><circle r="6" cx="-4" cy="6" fill="#fff6e8"/><circle r="6" cx="-7" cy="-2" fill="#fff6e8"/><circle r="4" fill="#f2c230"/></g><g transform="translate(42 40) scale(0.8)"><circle r="6" cx="0" cy="-7" fill="#fff6e8"/><circle r="6" cx="7" cy="-2" fill="#fff6e8"/><circle r="6" cx="4" cy="6" fill="#fff6e8"/><circle r="6" cx="-4" cy="6" fill="#fff6e8"/><circle r="6" cx="-7" cy="-2" fill="#fff6e8"/><circle r="4" fill="#f2c230"/></g></pattern>
+ <pattern id="pDots" patternUnits="userSpaceOnUse" width="34" height="34"><circle cx="8" cy="8" r="5" fill="#fff6e8" opacity="0.85"/><circle cx="25" cy="25" r="5" fill="#fff6e8" opacity="0.85"/></pattern>
+ <pattern id="pStripeH" patternUnits="userSpaceOnUse" width="40" height="36"><rect y="0" width="40" height="14" fill="#fff6e8" opacity="0.85"/></pattern>
  <linearGradient id="gAO" x1="0" y1="0" x2="0" y2="1"><stop offset="0" stop-color="#1b1424" stop-opacity="0"/><stop offset="1" stop-color="#1b1424" stop-opacity="0.22"/></linearGradient>
  <clipPath id="clipHead"><circle cx="0" cy="-322" r="78"/></clipPath>`;
 }

diff --git a/video/web9/sheet3.html b/video/web9/sheet3.html
@@ -1,0 +1,11 @@
+<!doctype html><html><head><meta charset="utf-8"><style>@font-face{font-family:'Fredoka';font-weight:700;src:url(fonts/fredoka-latin-700-normal.woff2)}body{margin:0}</style></head><body><div id="s"></div>
+<script src="lib.js"></script><script src="words.js"></script><script src="characters_v1.js"></script><script src="characters.js"></script><script src="characters2.js"></script><script src="environments.js"></script><script src="scenes.js"></script><script src="shots.js"></script><script src="main.js"></script>
+<script>
+const ids=['polo','mae','padeira','motorista','barnabe','menino','mulher','moca','viz1','viz2','viz3','padeiro2'];
+const ex=['happy','worried','smug','happy','laugh','surprised','laugh','smug','neutral','happy','happy','happy'];
+let s='<rect width="2400" height="1300" fill="#efe3c8"/>';
+ids.forEach((id,i)=>{s+=person(id,{x:150+(i%7)*330,y:i<7?560:1240,s:1.15,face:(i%3-1)*0.4,expr:ex[i],t:0.3,armR:[20,150,60,10,130,90,40,150,20,60,30,80][i],bendR:30,wink:true})});
+s+=person('padeira',{x:2150,y:1240,old:true,expr:'happy',s:1.15,t:0.3});
+s+=person('mae',{x:1800,y:1240,s:1.15,side:true,walk:1.2,face:0.8,t:0.3,expr:'worried'});
+document.getElementById('s').innerHTML='<svg xmlns="http://www.w3.org/2000/svg" width="2400" height="1300">'+DEFS+s+'</svg>';
+</script></body></html>

diff --git a/video/web9/cover.html b/video/web9/cover.html
@@ -1,6 +1,6 @@
 <!doctype html><html><head><meta charset="utf-8">
 <style>@font-face{font-family:'Fredoka';font-weight:700;src:url(fonts/fredoka-latin-700-normal.woff2)}html,body{margin:0;background:#000}#stage{width:1080px;height:1920px;overflow:hidden}</style></head><body><div id="stage"></div>
-<script src="lib.js"></script><script src="words.js"></script><script src="characters_v1.js"></script><script src="characters.js"></script><script src="environments.js"></script><script src="scenes.js"></script><script src="shots.js"></script><script src="main.js"></script>
+<script src="lib.js"></script><script src="words.js"></script><script src="characters_v1.js"></script><script src="characters.js"></script><script src="characters2.js"></script><script src="environments.js"></script><script src="scenes.js"></script><script src="shots.js"></script><script src="main.js"></script>
 <script>
 document.fonts.ready.then(()=>{});
 window.renderCover = () => {

diff --git a/video/web9/index.html b/video/web9/index.html
@@ -9,6 +9,7 @@ html,body{margin:0;padding:0;background:#000;overflow:hidden}#stage{width:1080px
 <script src="words.js"></script>
 <script src="characters_v1.js"></script>
 <script src="characters.js"></script>
+<script src="characters2.js"></script>
 <script src="environments.js"></script>
 <script src="scenes.js"></script>
 <script src="shots.js"></script>
